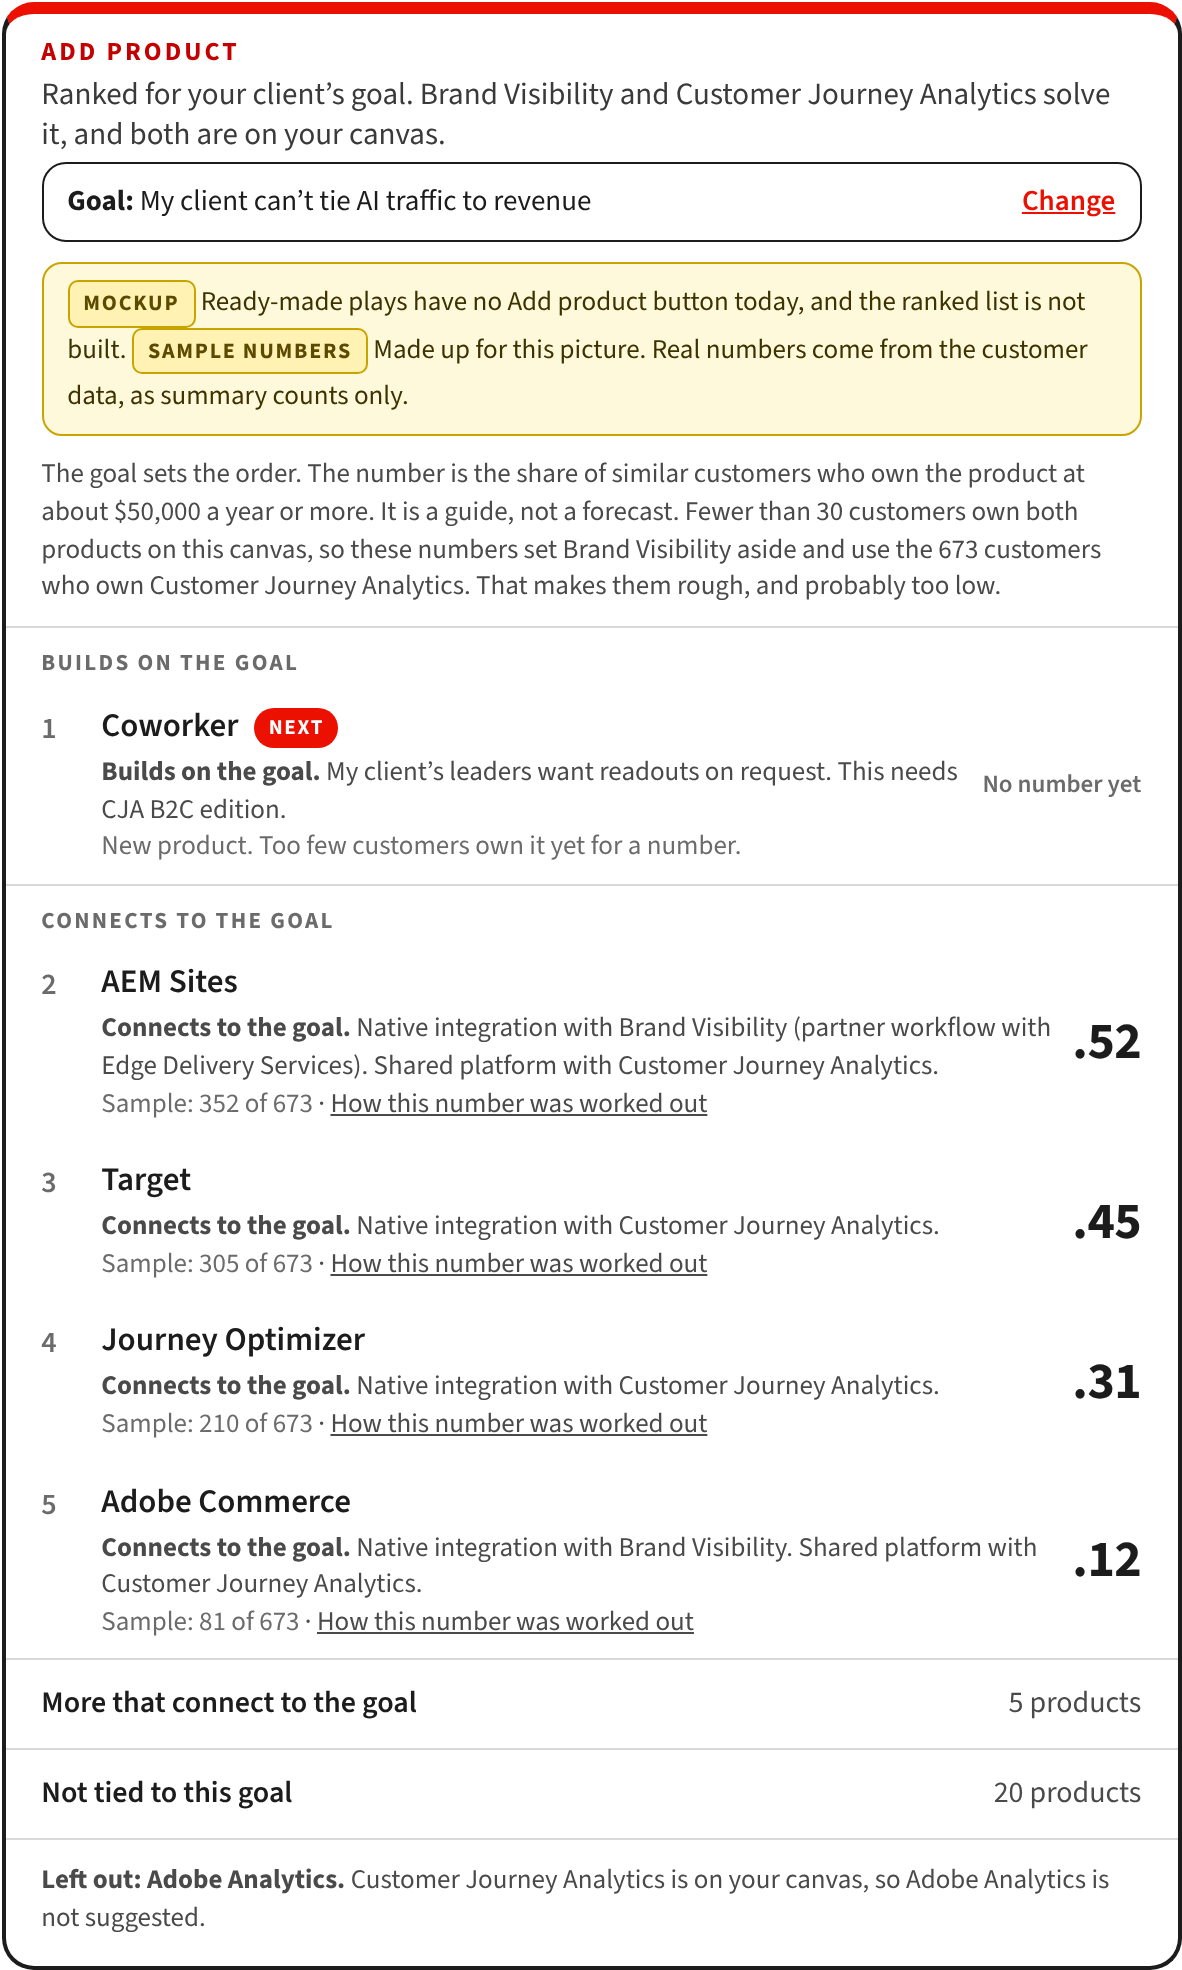
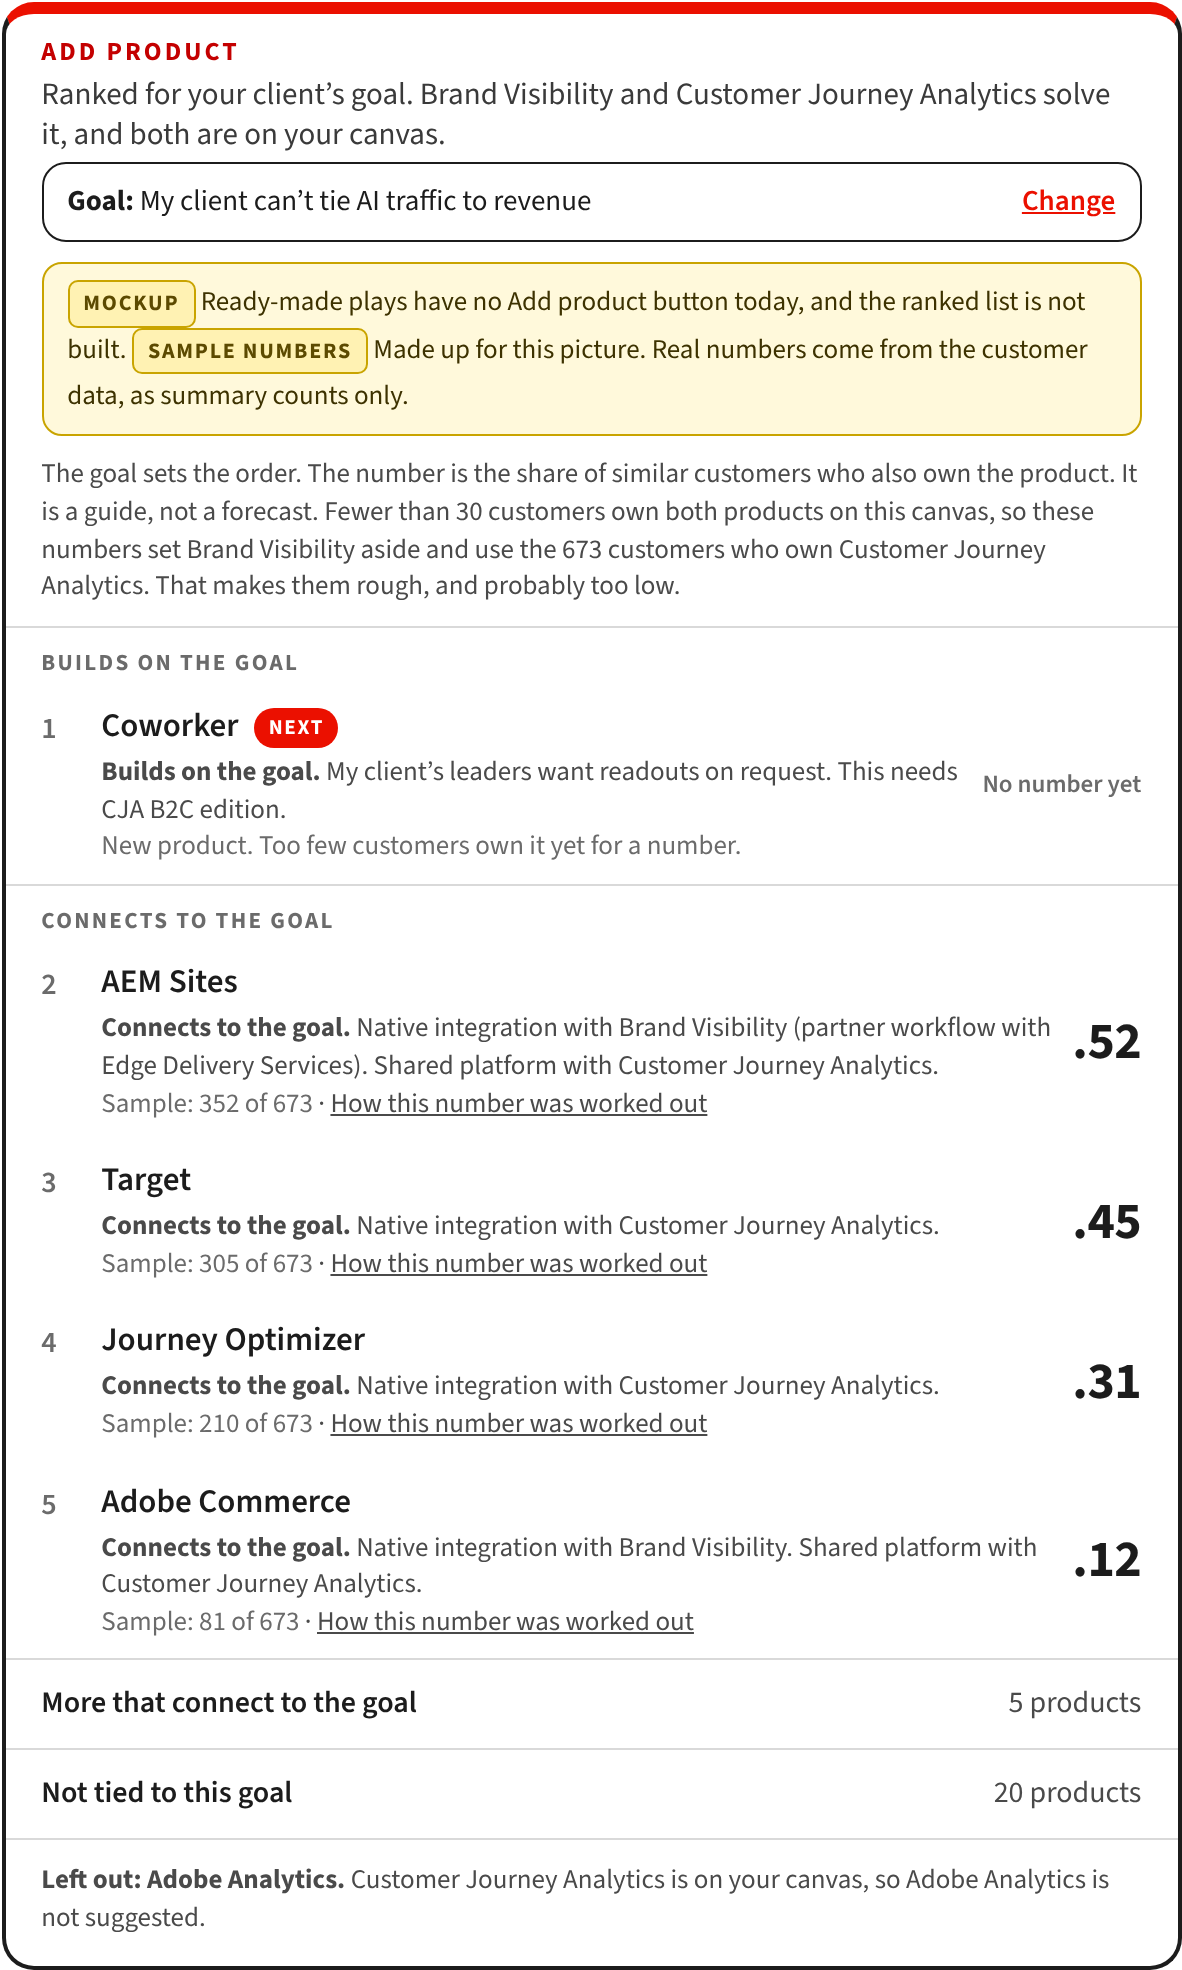
Handoff: Adam's yes on the list design; no dollar figure shown to partners [skip netlify]
Work in progress only; nothing in the tool changes. The mockup and the tab
drop the yearly-size wording, and the handoff records what Adam decided:
new products lead with "No number yet", the number is a guide, rare
combinations are marked rough, segments stay behind the scenes.

Claude-Session: https://claude.ai/code/session_016WYrHW3TmtC37K94o1NhYi

Changed region(s): [[0.0305, 0.2168, 0.9137, 0.3096]]

diff --git a/handoff/2026-11-17/propensity/method_page/propensity-method.html b/handoff/2026-11-17/propensity/method_page/propensity-method.html
@@ -320,7 +320,7 @@ main h1,main h2,main h3,main .micro{text-wrap:balance}
         </ul>
       </article>
   </div>
-  <p class="pm-note"><strong>First lessons from real data, November 17.</strong> The number brings back long-established products, not new ones, so only the client’s goal can put a new product on the list. Proposed next, for Adam to decide: show numbers for established products only, and say they mean a product line above a set yearly size; mark a number from a rare combination as rough, because it reads low; and show no number for creative and document products for now, because the first files are too narrow for them.</p>
+  <p class="pm-note"><strong>First lessons from real data, November 17.</strong> The number brings back long-established products, not new ones, so only the client’s goal can put a new product on the list. Decided with Adam: established products show a number, and a new product with too few owners shows “No number yet”. A number from a rare combination is marked as rough, because it reads low. Creative and document products show no number for now, because the first files are too narrow for them. The partner is never asked for the client’s segment.</p>
   <p class="pm-note"><strong>What comes next.</strong> First the open choices. Then the customer data. Then the checks. Partners see the list only after the checks are done, the privacy check passes and the data owner signs off. If the numbers fail their checks, the list shows only the share of all customers.</p>
 </div></section>
 </main>

diff --git a/handoff/2026-11-17/propensity/mockups/propensity_mock.js b/handoff/2026-11-17/propensity/mockups/propensity_mock.js
@@ -92,7 +92,7 @@ const folds = `<div class="pp-fold">More that connect to the goal <span>5 produc
 <div class="pp-fold">Not tied to this goal <span>20 products</span></div>
 <p class="pp-left"><b>Left out: Adobe Analytics.</b> Customer Journey Analytics is on your canvas, so Adobe Analytics is not suggested.</p>`;
 
-const def = '<p class="pp-def">The goal sets the order. The number is the share of similar customers who own the product at about $50,000 a year or more. It is a guide, not a forecast. Fewer than 30 customers own both products on this canvas, so these numbers set Brand Visibility aside and use the 673 customers who own Customer Journey Analytics. That makes them rough, and probably too low.</p>';
+const def = '<p class="pp-def">The goal sets the order. The number is the share of similar customers who also own the product. It is a guide, not a forecast. Fewer than 30 customers own both products on this canvas, so these numbers set Brand Visibility aside and use the 673 customers who own Customer Journey Analytics. That makes them rough, and probably too low.</p>';
 
 // 2. The list. It ships only once the customer data is in (Adam, Nov 17). Established products show a number;
 // a new product with too few owners shows none. The number is a guide: Adam, "directional at best".

diff --git a/handoff/2026-11-17/propensity/method_page/build_method_page.py b/handoff/2026-11-17/propensity/method_page/build_method_page.py
@@ -265,7 +265,7 @@ MAIN = '''<main id="main">
         </ul>
       </article>
   </div>
-  <p class="pm-note"><strong>First lessons from real data, November 17.</strong> The number brings back long-established products, not new ones, so only the client’s goal can put a new product on the list. Proposed next, for Adam to decide: show numbers for established products only, and say they mean a product line above a set yearly size; mark a number from a rare combination as rough, because it reads low; and show no number for creative and document products for now, because the first files are too narrow for them.</p>
+  <p class="pm-note"><strong>First lessons from real data, November 17.</strong> The number brings back long-established products, not new ones, so only the client’s goal can put a new product on the list. Decided with Adam: established products show a number, and a new product with too few owners shows “No number yet”. A number from a rare combination is marked as rough, because it reads low. Creative and document products show no number for now, because the first files are too narrow for them. The partner is never asked for the client’s segment.</p>
   <p class="pm-note"><strong>What comes next.</strong> First the open choices. Then the customer data. Then the checks. Partners see the list only after the checks are done, the privacy check passes and the data owner signs off. If the numbers fail their checks, the list shows only the share of all customers.</p>
 </div></section>
 </main>'''

diff --git a/handoff/2026-11-17/HANDOFF.md b/handoff/2026-11-17/HANDOFF.md
@@ -64,7 +64,9 @@ Read this first in the new chat. Everything below is on GitHub, so a new account
 **Adam on the data and the number (Nov 17, late)**
 - The rows he removed from the files were the smaller ones, mostly zero-dollar rows where the customer owned nothing.
 - No segment question in the tool. "Can we have it behind the scenes and no one could see it"; the segments may change in December; and "no propensity to buy score is ever perfect. It's directional at best." So: the partner is not asked for a segment, the number is presented as a guide, and segments are used only when the numbers are prepared and checked. A private mockup with a segment question was drawn and is dropped.
-- Drafted for his yes or no, not decided: a new product with too few owners shows no number; numbers from a rare combination are marked rough; numbers are labeled with what "owns" means; no numbers for creative and document products for now. The mockup `propensity/mockups/p3_*` and the tab show this as a proposal.
+- **Decided (Adam: "Above looks good"):** a new product with too few owners leads its heading with "No number yet"; established products show a number, called a guide; numbers from a rare combination are marked rough; no numbers for creative and document products for now. Picture: `propensity/mockups/p3_list_only.png`. Not built.
+- **Never show a dollar figure to partners.** Adam: "I'm not gonna mention $50,000 or more to them." The counts come from product lines above the size floor of his files; that stays a note for whoever prepares the numbers, not text in the tool.
+- **Segments stay behind the scenes** (confirmed twice). No segment names in the tool.
 - He has not said whether real counts may go on the brief's tab. Default: they wait, and they never go to GitHub.
 
 **Questions waiting for Adam**
